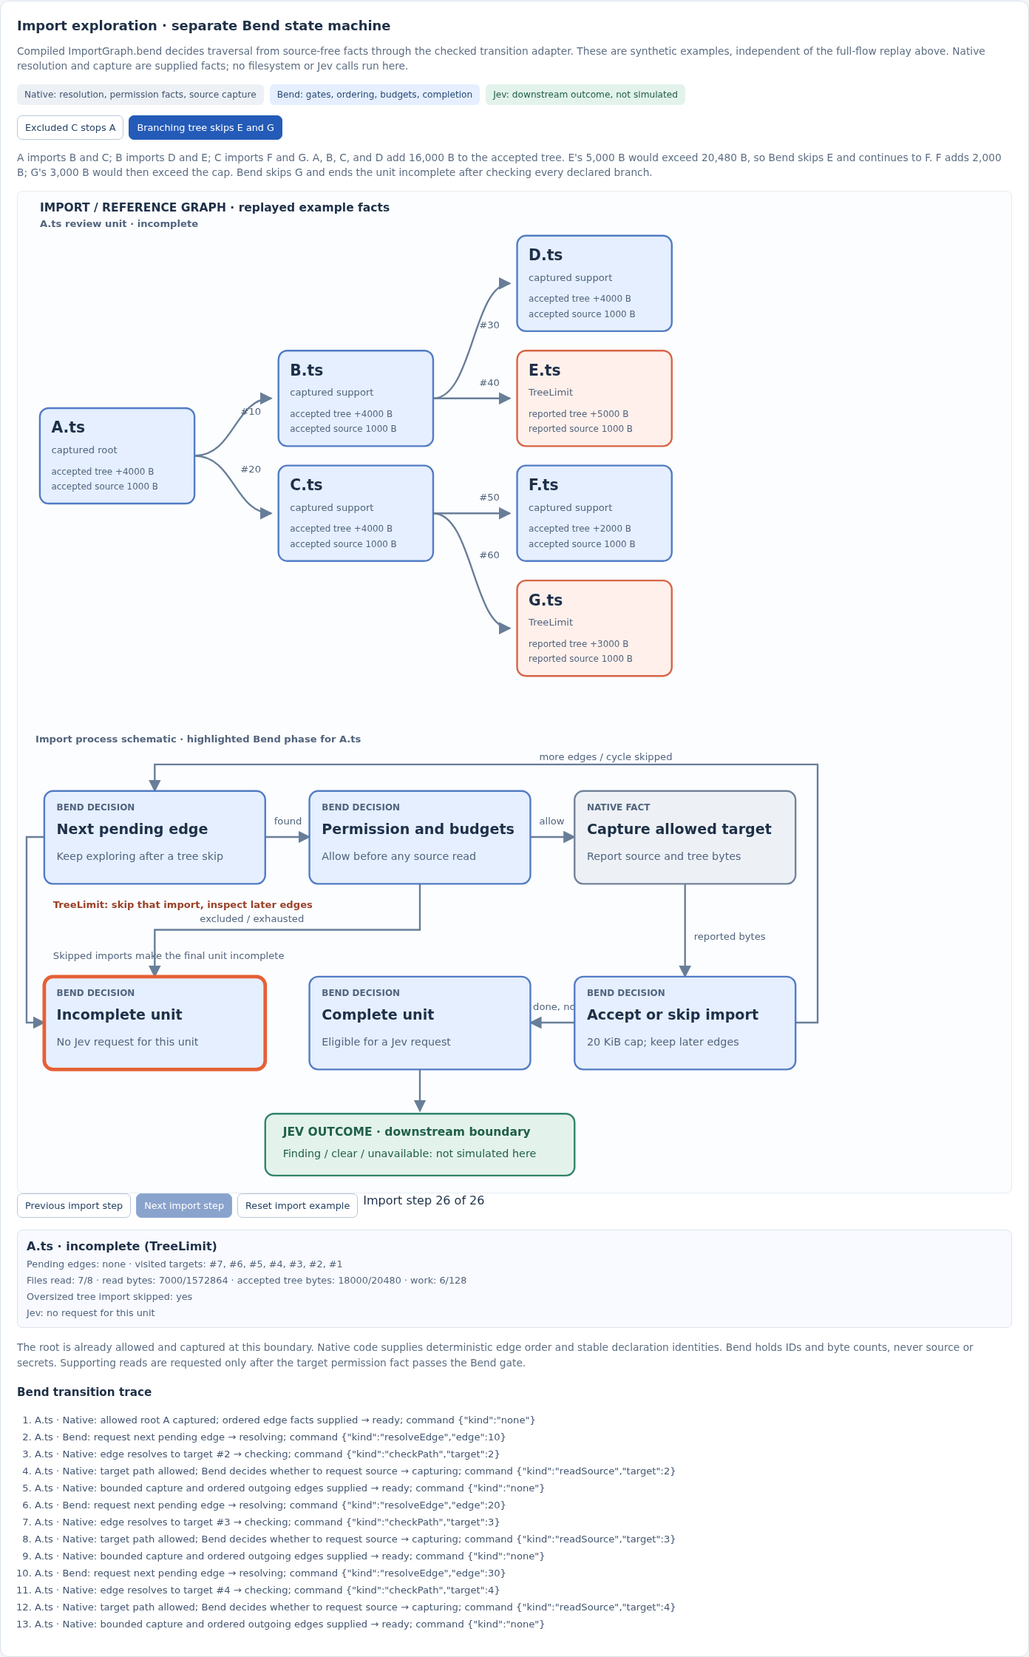
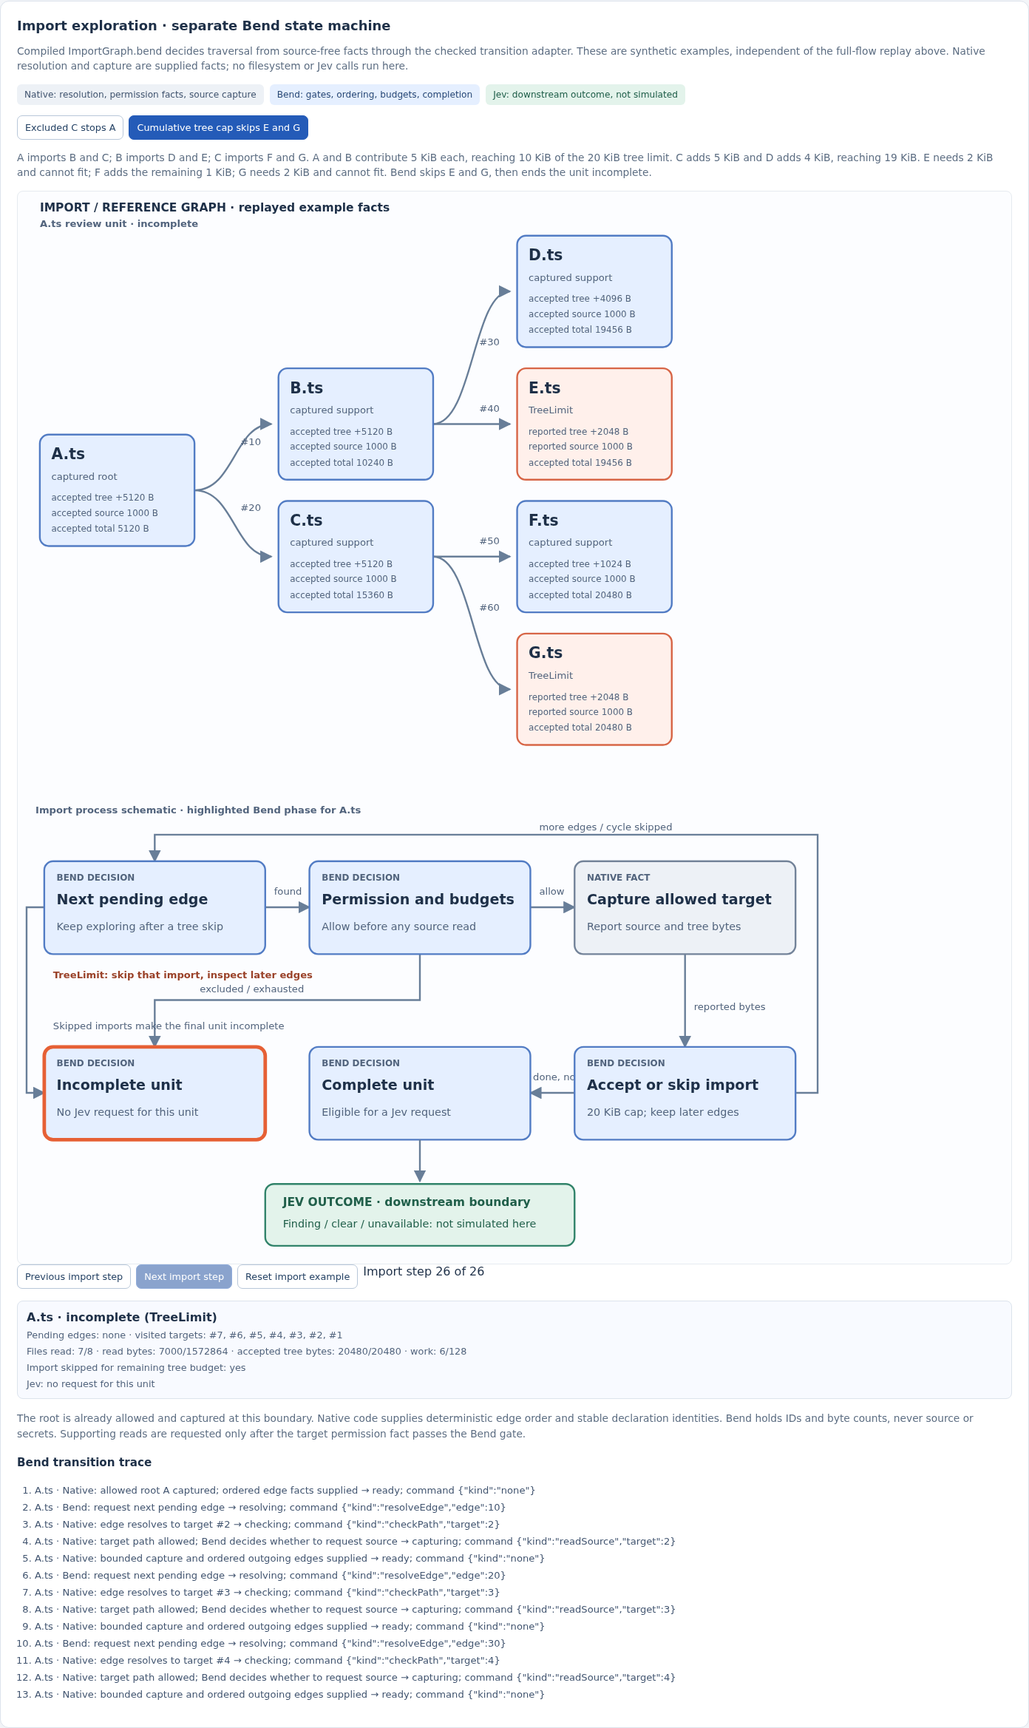
viz: show cumulative import tree budget at each file

diff --git a/packages/agent-flow-viz/src/import-graph-diagram.ts b/packages/agent-flow-viz/src/import-graph-diagram.ts
@@ -3,7 +3,7 @@ import type { ImportGraphCommand, ImportGraphEvent, ImportGraphProjection } from
 
 export type ImportGraphStage = "resolve" | "gate" | "capture" | "expand" | "complete" | "incomplete";
 type HistoryStep = { readonly unit: number; readonly event: ImportGraphEvent; readonly command: ImportGraphCommand; readonly state: ImportGraphProjection };
-type FileNode = { readonly target: number; readonly status: "captured" | "discovered" | "read requested" | "blocked"; readonly reason?: string; readonly sourceBytes?: number; readonly treeBytes?: number; readonly sizeAccepted?: boolean };
+type FileNode = { readonly target: number; readonly status: "captured" | "discovered" | "read requested" | "blocked"; readonly reason?: string; readonly sourceBytes?: number; readonly treeBytes?: number; readonly sizeAccepted?: boolean; readonly acceptedTotal?: number };
 type FileEdge = { readonly id: number; readonly from: number; to?: number; reason?: string; visited?: boolean };
 type UnitGraph = { readonly nodes: Map<number, FileNode>; readonly edges: Map<number, FileEdge>; root?: number; resolving?: number; checking?: number; reading?: number };
 
@@ -19,7 +19,7 @@ const projectFileGraphs = (unitCount: number, history: readonly HistoryStep[]): 
       case "root":
         if (step.state.files > 0) {
           graph.root = event.target;
-          graph.nodes.set(event.target, { target: event.target, status: "captured", sourceBytes: event.sourceBytes, treeBytes: event.treeBytes, sizeAccepted: true });
+          graph.nodes.set(event.target, { target: event.target, status: "captured", sourceBytes: event.sourceBytes, treeBytes: event.treeBytes, sizeAccepted: true, acceptedTotal: step.state.treeBytes });
           for (const id of event.edges) graph.edges.set(id, { id, from: event.target });
         }
         break;
@@ -55,10 +55,10 @@ const projectFileGraphs = (unitCount: number, history: readonly HistoryStep[]): 
       case "captured":
         if (graph.reading !== undefined) {
           if (command.kind === "none" && step.state.phase === "ready") {
-            graph.nodes.set(graph.reading, { target: graph.reading, status: "captured", sourceBytes: event.sourceBytes, treeBytes: event.treeBytes, sizeAccepted: true });
+            graph.nodes.set(graph.reading, { target: graph.reading, status: "captured", sourceBytes: event.sourceBytes, treeBytes: event.treeBytes, sizeAccepted: true, acceptedTotal: step.state.treeBytes });
             for (const id of event.edges) graph.edges.set(id, { id, from: graph.reading! });
           } else if (command.kind === "unitIncomplete" || command.kind === "skipImport") {
-            graph.nodes.set(graph.reading, { target: graph.reading, status: "blocked", reason: command.reason, sourceBytes: event.sourceBytes, treeBytes: event.treeBytes, sizeAccepted: false });
+            graph.nodes.set(graph.reading, { target: graph.reading, status: "blocked", reason: command.reason, sourceBytes: event.sourceBytes, treeBytes: event.treeBytes, sizeAccepted: false, acceptedTotal: step.state.treeBytes });
           }
         }
         break;
@@ -104,11 +104,11 @@ const fileGraph = <Message>(h: HtmlBuilder<Message>, units: readonly string[],
     for (const [depth, level] of levels) {
       level.forEach((vertex, index) => positions.set(vertex.key, {
         x: 25 + depth * 270,
-        y: rowTop + (maxCount - level.length) * 65 + index * 130,
+        y: rowTop + (maxCount - level.length) * 75 + index * 150,
       }));
     }
     const top = rowTop;
-    rowTop += maxCount * 130 + 40;
+    rowTop += maxCount * 150 + 40;
     return { graph, unit, vertices, positions, top, depthCount: levels.size };
   });
   const width = Math.max(920, ...rows.map((row) => 40 + row.depthCount * 270));
@@ -127,11 +127,11 @@ const fileGraph = <Message>(h: HtmlBuilder<Message>, units: readonly string[],
         const to = positions.get(edge.to === undefined ? `edge:${edge.id}` : `target:${edge.to}`);
         if (from === undefined || to === undefined) continue;
         const backwards = to.x <= from.x;
-        const path = backwards ? `M ${from.x + 88} ${from.y + 108} L ${from.x + 88} ${from.y + 120} L ${to.x + 88} ${to.y + 120} L ${to.x + 88} ${to.y + 108}` :
-          `M ${from.x + 175} ${from.y + 54} C ${from.x + 220} ${from.y + 54}, ${to.x - 50} ${to.y + 54}, ${to.x - 8} ${to.y + 54}`;
+        const path = backwards ? `M ${from.x + 88} ${from.y + 126} L ${from.x + 88} ${from.y + 138} L ${to.x + 88} ${to.y + 138} L ${to.x + 88} ${to.y + 126}` :
+          `M ${from.x + 175} ${from.y + 63} C ${from.x + 220} ${from.y + 63}, ${to.x - 50} ${to.y + 63}, ${to.x - 8} ${to.y + 63}`;
         elements.push(h.g([], [
           h.path([h.D(path), h.Fill("none"), h.Stroke("#687e98"), h.StrokeWidth("2"), h.MarkerEnd("url(#file-import-arrow)")], []),
-          h.text([h.X(String(backwards ? (from.x + to.x) / 2 + 58 : (from.x + to.x) / 2 + 92)), h.Y(String(backwards ? Math.max(from.y, to.y) + 119 : (from.y + to.y) / 2 + 40)), h.FontSize("11"), h.Fill("#52647d")], [edge.visited ? `cycle #${edge.id}` : `#${edge.id}`]),
+          h.text([h.X(String(backwards ? (from.x + to.x) / 2 + 58 : (from.x + to.x) / 2 + 92)), h.Y(String(backwards ? Math.max(from.y, to.y) + 137 : (from.y + to.y) / 2 + 49)), h.FontSize("11"), h.Fill("#52647d")], [edge.visited ? `cycle #${edge.id}` : `#${edge.id}`]),
         ]));
       }
       for (const vertex of vertices) {
@@ -147,12 +147,14 @@ const fileGraph = <Message>(h: HtmlBuilder<Message>, units: readonly string[],
         const sizeKind = node?.sizeAccepted === false ? "reported" : "accepted";
         const treeSize = node?.treeBytes === undefined ? "tree size unknown" : `${sizeKind} tree +${node.treeBytes} B`;
         const sourceSize = node?.sourceBytes === undefined ? "source size unknown" : `${sizeKind} source ${node.sourceBytes} B`;
+        const total = node?.acceptedTotal === undefined ? "accepted total unknown" : `accepted total ${node.acceptedTotal} B`;
         elements.push(h.g([], [
-          h.rect([h.X(String(x)), h.Y(String(y)), h.Width("175"), h.Height("108"), h.Rx("10"), h.Fill(fill), h.Stroke(stroke), h.StrokeWidth("2")], []),
+          h.rect([h.X(String(x)), h.Y(String(y)), h.Width("175"), h.Height("126"), h.Rx("10"), h.Fill(fill), h.Stroke(stroke), h.StrokeWidth("2")], []),
           h.text([h.X(String(x + 13)), h.Y(String(y + 28)), h.FontSize("17"), h.FontWeight("700"), h.Fill("#1e3048")], [name]),
           h.text([h.X(String(x + 13)), h.Y(String(y + 51)), h.FontSize("11"), h.Fill("#52647d")], [detail]),
           h.text([h.X(String(x + 13)), h.Y(String(y + 75)), h.FontSize("10"), h.Fill("#52647d")], [treeSize]),
           h.text([h.X(String(x + 13)), h.Y(String(y + 92)), h.FontSize("10"), h.Fill("#52647d")], [sourceSize]),
+          h.text([h.X(String(x + 13)), h.Y(String(y + 110)), h.FontSize("10"), h.Fill("#52647d")], [total]),
         ]));
       }
       return elements;

diff --git a/packages/agent-flow-viz/src/import-graph-view.ts b/packages/agent-flow-viz/src/import-graph-view.ts
@@ -12,14 +12,14 @@ const allowed = () => step("Native: target path allowed; Bend decides whether to
 const captured = (edges: number[] = [], treeBytes = 400, sourceBytes = 1000) => step("Native: bounded capture and ordered outgoing edges supplied", { kind: "captured", sourceBytes, treeBytes, edges });
 export const IMPORT_GRAPH_SCENARIOS = [
   { title: "Excluded C stops A", description: "The only supplied root is A.ts. A imports B.ts, and B imports C.ts. A and B are allowed; C is excluded before a read request, so A's review unit ends incomplete.", units: ["A.ts"], targetNames: { 1: "A.ts", 2: "B.ts", 3: "C.ts" }, steps: [root([10]), next(), resolved(2), allowed(), captured([20]), next(), resolved(3), step("Native: C excluded; Bend marks A incomplete without requesting C source", { kind: "pathChecked", allowed: false })] },
-  { title: "Branching tree skips E and G", description: "A imports B and C; B imports D and E; C imports F and G. A, B, C, and D add 16,000 B to the accepted tree. E's 5,000 B would exceed 20,480 B, so Bend skips E and continues to F. F adds 2,000 B; G's 3,000 B would then exceed the cap. Bend skips G and ends the unit incomplete after checking every declared branch.", units: ["A.ts"], targetNames: { 1: "A.ts", 2: "B.ts", 3: "C.ts", 4: "D.ts", 5: "E.ts", 6: "F.ts", 7: "G.ts" }, steps: [
-    root([10, 20], 4000),
-    next(), resolved(2), allowed(), captured([30, 40], 4000),
-    next(), resolved(3), allowed(), captured([50, 60], 4000),
-    next(), resolved(4), allowed(), captured([], 4000),
-    next(), resolved(5), allowed(), step("Native: E capture reports 1,000 B source and 5,000 B tree", { kind: "captured", sourceBytes: 1000, treeBytes: 5000, edges: [] }),
-    next(), resolved(6), allowed(), captured([], 2000),
-    next(), resolved(7), allowed(), step("Native: G capture reports 1,000 B source and 3,000 B tree", { kind: "captured", sourceBytes: 1000, treeBytes: 3000, edges: [] }),
+  { title: "Cumulative tree cap skips E and G", description: "A imports B and C; B imports D and E; C imports F and G. A and B contribute 5 KiB each, reaching 10 KiB of the 20 KiB tree limit. C adds 5 KiB and D adds 4 KiB, reaching 19 KiB. E needs 2 KiB and cannot fit; F adds the remaining 1 KiB; G needs 2 KiB and cannot fit. Bend skips E and G, then ends the unit incomplete.", units: ["A.ts"], targetNames: { 1: "A.ts", 2: "B.ts", 3: "C.ts", 4: "D.ts", 5: "E.ts", 6: "F.ts", 7: "G.ts" }, steps: [
+    root([10, 20], 5120),
+    next(), resolved(2), allowed(), captured([30, 40], 5120),
+    next(), resolved(3), allowed(), captured([50, 60], 5120),
+    next(), resolved(4), allowed(), captured([], 4096),
+    next(), resolved(5), allowed(), step("Native: E capture reports 1,000 B source and 2 KiB tree", { kind: "captured", sourceBytes: 1000, treeBytes: 2048, edges: [] }),
+    next(), resolved(6), allowed(), captured([], 1024),
+    next(), resolved(7), allowed(), step("Native: G capture reports 1,000 B source and 2 KiB tree", { kind: "captured", sourceBytes: 1000, treeBytes: 2048, edges: [] }),
     next(),
   ] },
 ] as const;
@@ -59,7 +59,7 @@ export const importGraphView = <Message>(h: HtmlBuilder<Message>, scenarioIndex:
       h.strong([], [`${scenario.units[index]} · ${state.phase}${state.reason ? ` (${state.reason})` : ""}`]),
       h.span([], [`Pending edges: ${ids(state.pending)} · visited targets: ${ids(state.visited)}`]),
       h.span([], [`Files read: ${state.files}/8 · read bytes: ${state.readBytes}/1572864 · accepted tree bytes: ${state.treeBytes}/20480 · work: ${state.work}/128`]),
-      h.span([], [`Oversized tree import skipped: ${state.skippedTree ? "yes" : "no"}`]),
+      h.span([], [`Import skipped for remaining tree budget: ${state.skippedTree ? "yes" : "no"}`]),
       h.span([], [state.phase === "complete" ? "Jev: eligible; no request or result simulated" : state.phase === "incomplete" ? "Jev: no request for this unit" : state.skippedTree ? "Jev: waiting for remaining branches; unit will be incomplete" : "Jev: waiting for complete unit"]),
     ]))),
     h.p([h.Class("description")], ["The root is already allowed and captured at this boundary. Native code supplies deterministic edge order and stable declaration identities. Bend holds IDs and byte counts, never source or secrets. Supporting reads are requested only after the target permission fact passes the Bend gate."]),

diff --git a/docs/import-graph-bend-state-machine.md b/docs/import-graph-bend-state-machine.md
@@ -18,7 +18,7 @@ stateDiagram-v2
   Ready --> Complete: no pending edges / UnitComplete
   Resolving --> Incomplete: missing, ambiguous, unsupported
   Checking --> Incomplete: excluded or budget exhausted
-  Capturing --> Ready: oversized tree contribution / SkipImport; continue pending
+  Capturing --> Ready: tree contribution does not fit / SkipImport; continue pending
   Capturing --> Incomplete: capture failed or read/work limit
   Ready --> Incomplete: skipped tree import at end, work, or depth limit
   Idle --> Incomplete: invalid root fact
@@ -32,7 +32,7 @@ stateDiagram-v2
 | --- | --- |
 | Parse syntax and binding; assign stable source-free edge and declaration IDs in deterministic source order with canonical path/declaration tie-breaks. Resolve only repository-contained paths and physical identities. | Pop the next pending edge in FIFO order. Repeated declaration identity is included without another source request. Cycle terminates. |
 | Check containment, protected paths, Git ignore, and effective user selection **before source read**; report one `PathChecked` fact. | Excluded path makes the dependent unit incomplete. An allowed path alone does not trigger a read until file, total-read, tree, depth, and work budgets pass. |
-| Execute `ReadSource` at most once per declaration identity; capture stable source, encoded tree contribution, and ordered outgoing edge IDs, or report `CaptureFailed`. | Accept a fitting contribution and append its edges. If the contribution exceeds 20 KiB, emit `SkipImport(TreeLimit)`, count the read, keep later edges pending, and leave the accepted tree unchanged. A unit with skipped imports ends incomplete; no partial tree reaches rule selection or Jev. |
+| Execute `ReadSource` at most once per declaration identity; capture stable source, encoded tree contribution, and ordered outgoing edge IDs, or report `CaptureFailed`. | Accept a fitting contribution and append its edges. If the contribution does not fit the remaining 20 KiB budget, emit `SkipImport(TreeLimit)`, count the read, keep later edges pending, and leave the accepted tree unchanged. A unit with skipped imports ends incomplete; no partial tree reaches rule selection or Jev. |
 | Measure deadline and report `DeadlineReached`. Run Jev only later for complete units selected by the canonical review transition. | End with `UnitComplete` or source-free `UnitIncomplete(reason)`. Independent units have separate graph state and can continue. |
 
 For the first supported implementation, the intended native resolver handles statically bound named relative TypeScript imports, including `import type` and `as` aliases, to uniquely identified named type or top-level function declarations in `.ts`, `.tsx`, `.mts`, or `.cts` files. An extensionless relative specifier may resolve through a deterministic finite candidate order fixed by the native conformance fixture. Package/URL/path-alias imports, barrels/reexports, default/namespace/dynamic imports, `require`, declaration merging, and ambiguous or unsupported bindings are incomplete **when required by the selected root**. This is a proposed finite adoption boundary; #133/#138 must freeze the exact resolver order and fixtures before production egress. The model receives only the resulting `Found`/`NotFound`/`Many`/`Unhandled` fact and cannot claim parsing support by itself.
@@ -42,12 +42,12 @@ For the first supported implementation, the intended native resolver handles sta
 | Budget | Bend behavior |
 | --- | --- |
 | 256 KiB per captured file, inclusive | Reject an oversized root or supporting capture. Native capture must stop at the same bound. |
-| 20 KiB canonical encoded evidence tree per unit, inclusive | Bend accepts only contributions that fit. An oversized supporting import emits `SkipImport(TreeLimit)` and traversal continues to later edges. The accepted tree never exceeds the bound. Any skipped import makes the terminal unit incomplete. The tree includes root, nodes, edges, and required metadata; #93 adoption still must freeze its encoding. |
-| Eight total file reads and 1.5 MiB total source bytes per unit | Before `ReadSource`, reserve the full 256 KiB possible file size against the total-read ceiling; after capture, charge actual bytes, including skipped oversized imports. This conservative gate keeps reads bounded while allowing small-file graphs to reach the file count limit. |
+| 20 KiB canonical encoded evidence tree per unit, inclusive | Bend accepts only contributions that fit. A supporting import that does not fit emits `SkipImport(TreeLimit)` and traversal continues to later edges. The accepted tree never exceeds the bound. Any skipped import makes the terminal unit incomplete. The tree includes root, nodes, edges, and required metadata; #93 adoption still must freeze its encoding. |
+| Eight total file reads and 1.5 MiB total source bytes per unit | Before `ReadSource`, reserve the full 256 KiB possible file size against the total-read ceiling; after capture, charge actual bytes, including imports skipped for the tree budget. This conservative gate keeps reads bounded while allowing small-file graphs to reach the file count limit. |
 | 16 outgoing targets per captured node, four reference edges per path, 128 edge work steps | Oversized outgoing lists, depth, or work make the unit incomplete. Native analysis also has to enforce at most 64 parsed declarations per file and an actual finite deadline; the deadline is represented by `DeadlineReached`. |
 
 The queue appends each captured node's edge facts after existing pending edges, so multiple imports follow stable breadth-first source order. A visited key is the native stable declaration identity (canonical path, kind, declaration identity). IDs must be collision-free within the unit; the adapter rejects malformed numeric inputs and the native conformance gate must verify identity assignment. The Bend state retains IDs and counts only; it does not contain paths, symbols, source, hashes, credentials, or Jev output.
 
 ## Expected trace evidence
 
-The independent [source-free fixture](../conformance/import-graph-v1.json) and [checker](../packages/agent-flow-bend/scripts/check-import-graph.mjs) assert ordered commands, phases, and final state for A → B → excluded C, a single root with no imports, a cycle, and a branching A → B,C → D,E,F,G tree where E and G are skipped after their reported contributions exceed 20 KiB. The [dashboard](../packages/agent-flow-viz/src/import-graph-view.ts) shows only the A-root exclusion and branching-tree traces. The diagram distinguishes native fact/effect boxes, Bend transitions, and the downstream Jev boundary; it runs no filesystem read or Jev call. Five [Bend laws and proofs](../packages/agent-flow-bend/LAWS.bend) check exclusion never commands a read, a visited cycle needs no source, a full tree can still inspect pending edges, an oversized contribution keeps later edges pending, and a skipped tree ends incomplete. These finite checks do not prove the future native resolver or production wiring.
+The independent [source-free fixture](../conformance/import-graph-v1.json) and [checker](../packages/agent-flow-bend/scripts/check-import-graph.mjs) assert ordered commands, phases, and final state for A → B → excluded C, a single root with no imports, a cycle, and a branching A → B,C → D,E,F,G tree where E and G are each below 20 KiB but do not fit the remaining cumulative budget. The [dashboard](../packages/agent-flow-viz/src/import-graph-view.ts) shows only the A-root exclusion and branching-tree traces. The diagram distinguishes native fact/effect boxes, Bend transitions, and the downstream Jev boundary; it runs no filesystem read or Jev call. Five [Bend laws and proofs](../packages/agent-flow-bend/LAWS.bend) check exclusion never commands a read, a visited cycle needs no source, a full tree can still inspect pending edges, a contribution that does not fit keeps later edges pending, and a skipped tree ends incomplete. These finite checks do not prove the future native resolver or production wiring.

diff --git a/packages/agent-flow-viz/README.md b/packages/agent-flow-viz/README.md
@@ -206,15 +206,17 @@ position. Grey boxes represent supplied native resolution/capture facts; blue
 boxes represent Bend decisions; the green downstream boundary identifies Jev
 outcomes without simulating a request or result. Two source-free examples show
 the A → B → excluded C path and a branching A → B,C → D,E,F,G tree in which
-E and G exceed the 20 KiB accepted-tree cap. These are synthetic policy examples, not
+E and G do not fit the remaining 20 KiB tree budget. These are synthetic policy examples, not
 observed filesystem or production execution traces. The build checks the shared
 adapter projections and Foldkit controls; `test:browser` checks the rendered
 independent replay controls as well.
 
-In the branching-tree example, A, B, C, and D contribute 16,000 B. E reports
-5,000 B and Bend emits `SkipImport(TreeLimit)` without adding E to the accepted
-tree. F contributes 2,000 B; G reports 3,000 B and is skipped too. Bend then
-ends A's unit incomplete with an 18,000 B accepted tree and no Jev request.
+In the branching-tree example, A and B each contribute 5 KiB, so the accepted
+total reaches 10 KiB. C adds 5 KiB and D adds 4 KiB, reaching 19 KiB. E's
+2 KiB contribution does not fit the remaining 1 KiB, so Bend emits
+`SkipImport(TreeLimit)`. F adds 1 KiB, filling the 20 KiB tree; G's 2 KiB
+contribution is skipped too. Bend then ends A's unit incomplete with no Jev
+request. Each file box shows the accepted running total returned by Bend.
 File boxes display accepted or reported tree and source sizes; unread files
 show unknown sizes.
 The saved [tree overflow view](../../docs/assets/import-graph-tree-overflow.png)

diff --git a/docs/issue-93-type-function-review-spec.md b/docs/issue-93-type-function-review-spec.md
@@ -276,7 +276,8 @@ delivery policy. Coverage is never reported as a clean semantic judgment.
    unit-wide completeness, schema-v1 isolation and strict v2 target validation,
    exact request shape, per-path file selection before any source read
    (including A → B → excluded C),
-   no read of excluded C, continued bounded traversal after an oversized import,
+   no read of excluded C, continued bounded traversal after a contribution
+   exceeds the remaining tree budget,
    accepted tree size at or below 20 KiB, stale suppression, and source-free
    coverage. A controlled backend checks one request per eligible unit and no
    request for any incomplete or rule-empty unit. Typecheck and run the

diff --git a/packages/agent-flow-viz/DASHBOARD-RULES.md b/packages/agent-flow-viz/DASHBOARD-RULES.md
@@ -26,6 +26,8 @@ must state that scope until #119–#137 change the production boundary.
   offered by a capture that Bend rejects must be labeled "reported"; only a
   size accepted into Bend state may be labeled "accepted". Unread files have
   unknown sizes rather than invented estimates.
+- Running accepted-tree totals beside file nodes come from the Bend state
+  returned for that capture step, not a dashboard accumulator.
 - A skipped-import label only when Bend emits `SkipImport`; subsequent graph
   branches appear only as later native facts are replayed through Bend.
 - Rendering, responsive layout, history navigation, and source-free summaries

diff --git a/packages/agent-flow-bend/README.md b/packages/agent-flow-bend/README.md
@@ -4,7 +4,7 @@
 for one review unit. Its compiled graph and checked TypeScript adapter drive a
 separate dashboard state machine; production cross-file capture is still pending
 #133/#138. Run `npm run test:import-graph` for its laws and independent traces.
-Oversized supporting tree contributions emit `SkipImport(TreeLimit)` while
+Supporting tree contributions that do not fit the remaining budget emit `SkipImport(TreeLimit)` while
 later pending edges continue within the file, read, work, depth, and deadline
 limits. The accepted tree remains within 20 KiB, and a unit with any skipped
 import finishes incomplete with no Jev request.
